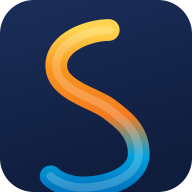
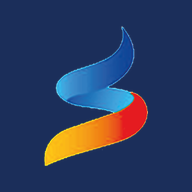
Nuevo icono PWA con la S de Solix

diff --git a/sw.js b/sw.js
@@ -1,4 +1,4 @@
-const CACHE_NAME = 'visita-solar-v22';
+const CACHE_NAME = 'visita-solar-v23';
 const ASSETS = [
     './',
     './index.html',
